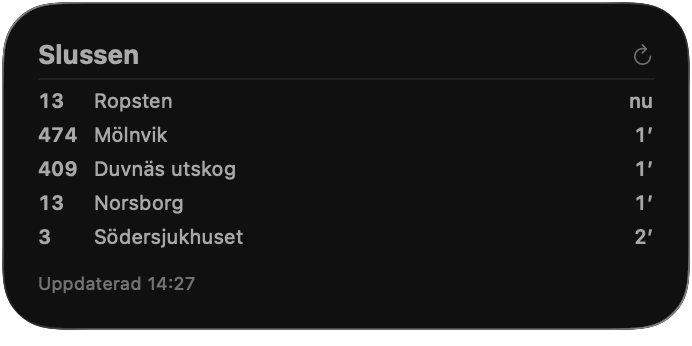
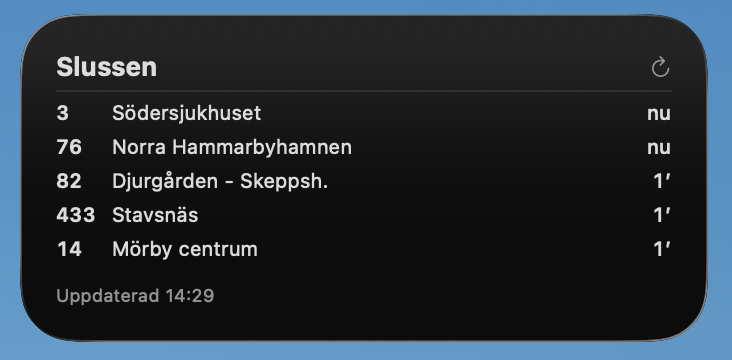
Swap in hand-picked screenshots
One shot now carries both the menu bar item and the board it opens, so the
separate menu bar strip goes; the widget shot gains the other transport modes.

Claude-Session: https://claude.ai/code/session_01DdnF5Aw6VPqVTSL2JjPu5t

diff --git a/README.md b/README.md
@@ -3,15 +3,13 @@
 Live departure times for a Stockholm public transport stop, in the macOS menu
 bar and on the desktop.
 
-<img src="Design/screenshots/menubar.png" width="139" alt="The menu bar item: two departures at a glance">
-
 Click the menu bar item and you get the full board: line, destination, berth,
 minutes left, cancellations, and any service messages for the station — plus a
 searchable stop picker, so you never have to look up a stop id by hand.
 
 <p>
-  <img src="Design/screenshots/board.png" width="452" alt="The departure board, opened from the menu bar">
-  <img src="Design/screenshots/widget.png" width="330" align="top" alt="The desktop widget">
+  <img src="Design/screenshots/board.png" width="393" alt="The departure board, opened from the menu bar item">
+  <img src="Design/screenshots/widget.png" width="366" align="top" alt="The desktop widget">
 </p>
 
 This is a macOS port of [sl-departures-widget](https://github.com/henrrrik/sl-departures-widget),
